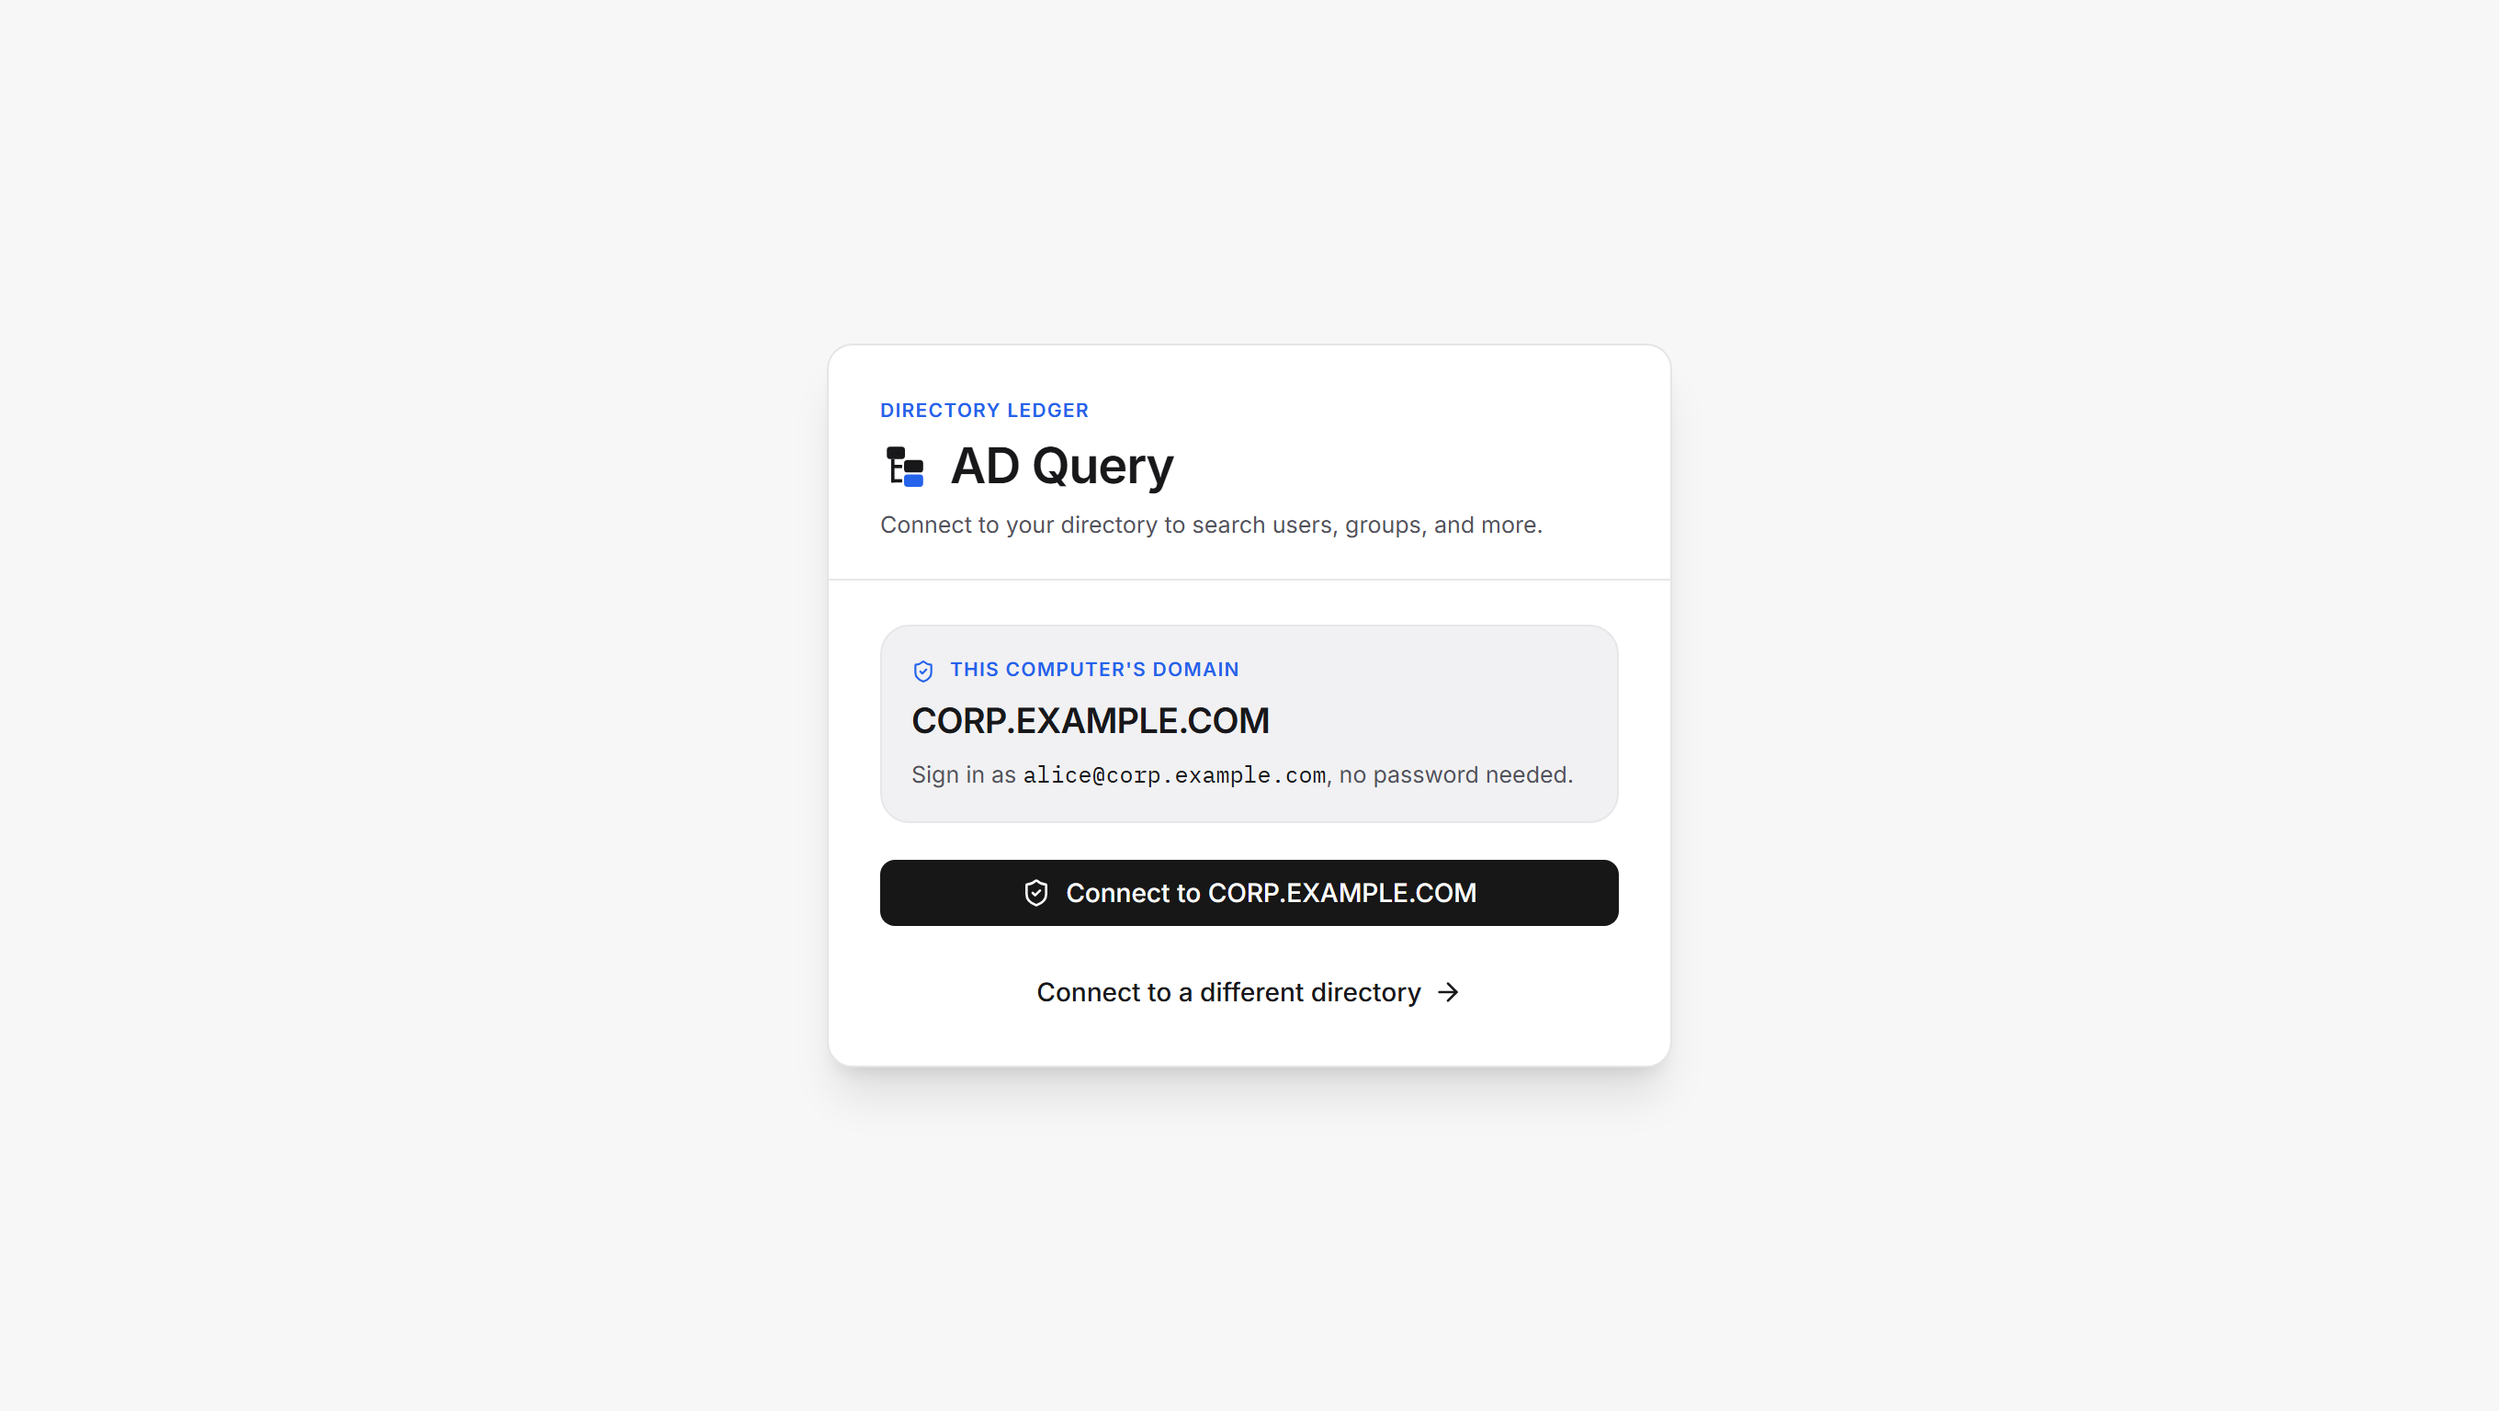
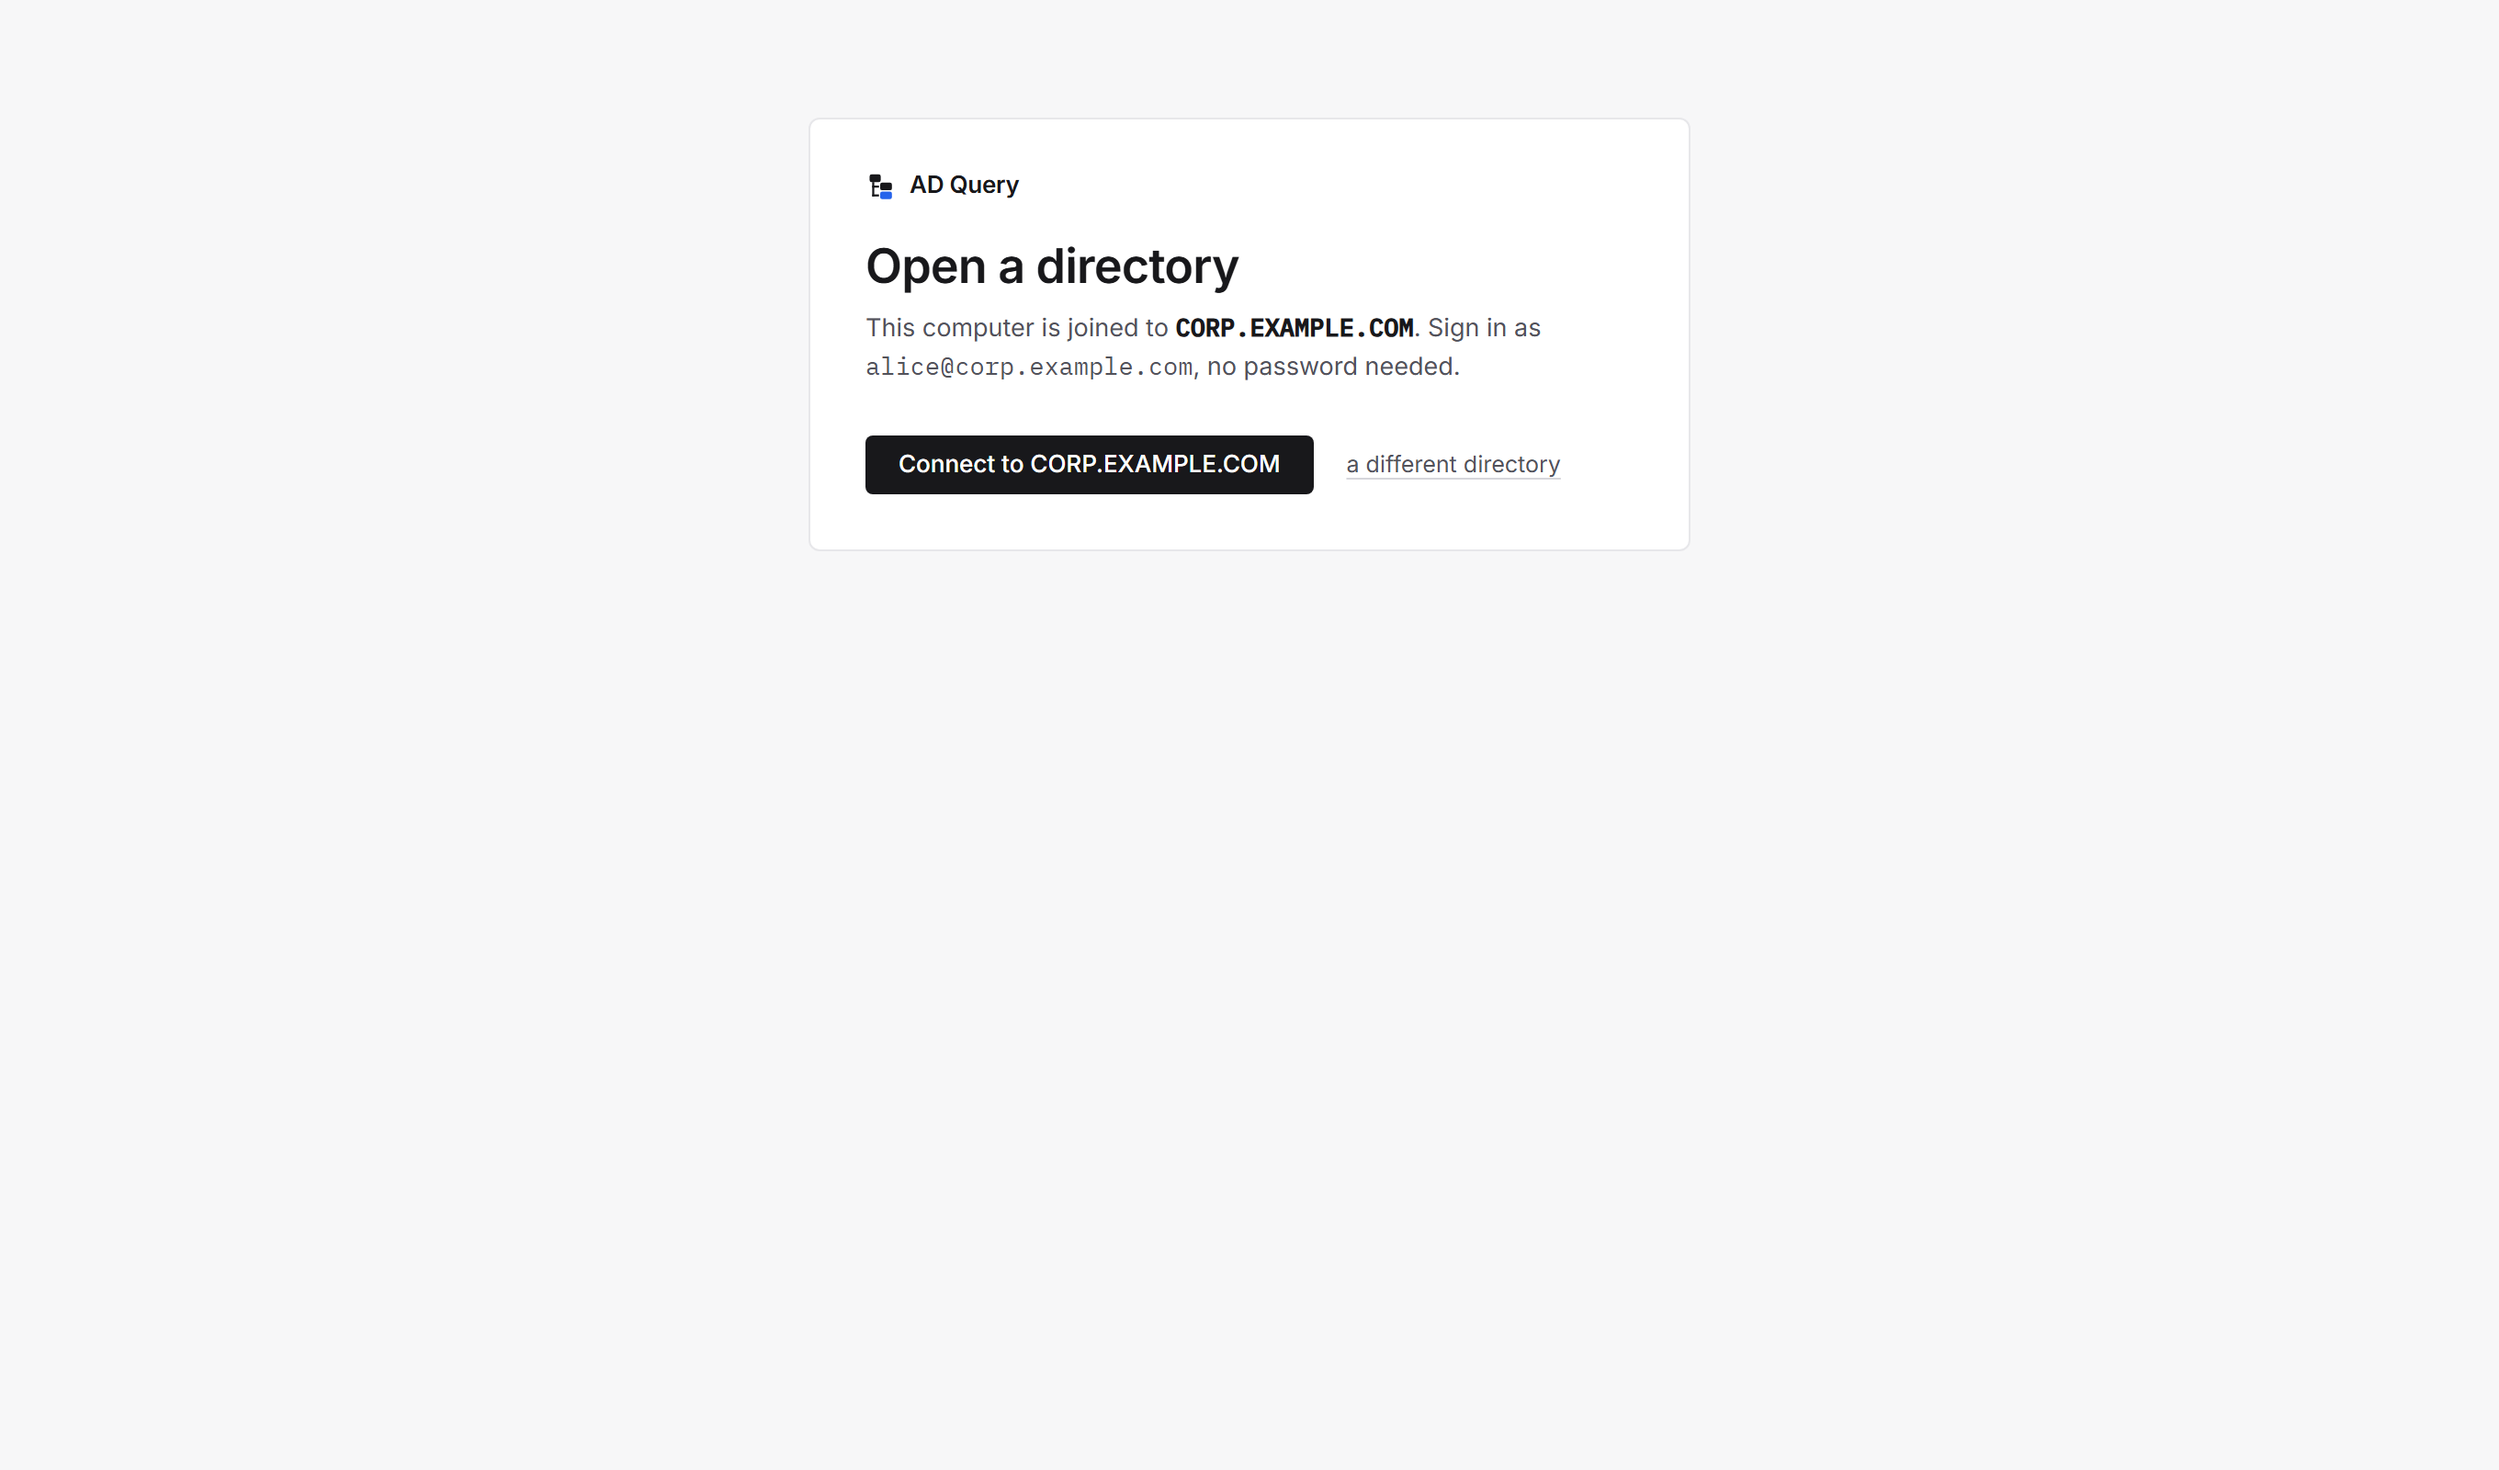
Gallery, README and notes for the ledger (#9)
The screenshot pipeline drives the new sheet: first page, opening sheet,
the question as a heading, the ledger, column facts, a row in full with
login, risk and security, export, the four registers and 365 sign-in, in
light and dark. Sixteen images replace the fourteen from the toolbar era.

README and the beta guide describe the sheet and its registers; the 1.0.0
release notes open with the ledger.

diff --git a/README.md b/README.md
@@ -8,27 +8,29 @@ Pick an object type, narrow it with a filter, choose *any* attributes as columns
 
 ## Screenshots
 
-Connect (auto-detects your domain → sign in as you, no password) and the results "ledger":
+The app is one document: a running head, a sheet with register tabs along its top edge, and a foot. Open a directory (a joined domain is one sentence and one button), then ask in plain words: what, where, and the conditions, with the search as a rule.
 
-| Connect | Results |
-|---|---|
-| ![Connect](docs/screenshots/01-connect.png) | ![Ledger](docs/screenshots/02-ledger.png) |
-
-| Filters | Inspect (attributes + ACL) | Accurate last login (all DCs) | Risk flags |
-|---|---|---|---|
-| ![Filters](docs/screenshots/03-filters.png) | ![Inspector](docs/screenshots/04-inspector.png) | ![Login](docs/screenshots/12-login.png) | ![Risk](docs/screenshots/13-risk.png) |
-
-| Bulk lookup from CSV/Excel | Export | Dark theme |
+| Open a directory | Opening sheet | The question as a heading |
 |---|---|---|
-| ![Bulk](docs/screenshots/05-bulk.png) | ![Export](docs/screenshots/06-export.png) | ![Dark](docs/screenshots/07-ledger-dark.png) |
+| ![Connect](docs/screenshots/01-connect.png) | ![Opening](docs/screenshots/02-opening.png) | ![Heading](docs/screenshots/03-heading.png) |
 
-Reports: one-click run/download recipes, **unused-license reclamation** (licensed users dormant in AD *and* 365), stale-account review, and Microsoft 365 sign-in:
+The ledger: a numbered margin, mono figures, account flags as small capitals. The right pane gives facts about a column (click a value to keep it, Alt-click to exclude) or one row in full.
 
-| Reports | Privileged access | Licenses & sign-in | Stale accounts | 365 sign-in |
+| Ledger | Column facts | A row in full | Login across every DC |
+|---|---|---|---|
+| ![Ledger](docs/screenshots/04-ledger.png) | ![Facts](docs/screenshots/05-facts.png) | ![Row](docs/screenshots/06-row.png) | ![Login](docs/screenshots/07-login.png) |
+
+| Risk | Security descriptor | Export | Dark |
+|---|---|---|---|
+| ![Risk](docs/screenshots/08-risk.png) | ![Security](docs/screenshots/09-security.png) | ![Export](docs/screenshots/10-export.png) | ![Dark](docs/screenshots/16-ledger-dark.png) |
+
+Registers are pages of the same sheet: stale accounts across AD and Microsoft 365, privileged access with nested membership and risk, licences held by dormant accounts, and bulk lookup from a spreadsheet.
+
+| Stale accounts | Privileged access | Licences | Bulk lookup | 365 sign-in |
 |---|---|---|---|---|
-| ![Reports](docs/screenshots/08-reports.png) | ![Privileged](docs/screenshots/14-privileged.png) | ![Licenses](docs/screenshots/09-reclaim.png) | ![Stale](docs/screenshots/10-stale.png) | ![365](docs/screenshots/11-m365-signin.png) |
+| ![Stale](docs/screenshots/11-stale.png) | ![Privileged](docs/screenshots/12-privileged.png) | ![Licences](docs/screenshots/13-licences.png) | ![Bulk](docs/screenshots/14-bulk.png) | ![365](docs/screenshots/15-m365-signin.png) |
 
-> Regenerate with `cd app/frontend && npm run shots` (builds the app, serves it, and drives the journey via Playwright into `docs/screenshots/`).
+> Regenerate with `cd app/frontend && npm run shots` (builds the app, serves it, and drives the journey through Playwright into `docs/screenshots/`). `node scripts/e2e-ledger.mjs` drives the real backend through `wails dev` against the Samba AD container in `test/samba-ad`.
 
 ## Stack
 

diff --git a/docs/releases/v1.0.0.md b/docs/releases/v1.0.0.md
@@ -1,6 +1,8 @@
 ## What's new
 
-AD Query 1.0 is the first release you install rather than unzip.
+AD Query 1.0 is the first release you install rather than unzip, and the first with the ledger.
+
+**One document.** The app is a single sheet with register tabs along its top edge: Search, Stale accounts, Privileged access, Licences, All users, Bulk lookup, and your Saved queries. You ask in plain words. The heading says what you are looking for, where, and under which conditions; the search is a rule; the result is a numbered ledger with facts about any column on the right, or one row in full. The first page offers a joined domain as one sentence and one button.
 
 **A real installer.** Per-user setup with no administrator prompt, a Start menu entry, an optional desktop shortcut and a clean uninstall. The app icon is new too: a small directory tree, the second child in blue.
 

diff --git a/docs/BETA.md b/docs/BETA.md
@@ -45,8 +45,8 @@ password is kept in Windows Credential Manager, keyed to the saved name.
 - **Bulk lookup:** import a CSV/Excel list of identities, match them against the
   directory, and export the enriched rows. Unmatched rows are listed and can be
   exported on their own.
-- **Reports:** stale accounts, privileged-group members (including nested),
-  license/sign-in, and an all-users export.
+- **Registers:** pages of the same sheet for stale accounts, privileged-group
+  members (including nested), licences and sign-in, all users, and bulk lookup.
 - **Inspect** a row for full attributes, accurate last-logon (queried across
   every DC, since `lastLogon` isn't replicated), risk flags, and the security
   descriptor (ACL).
